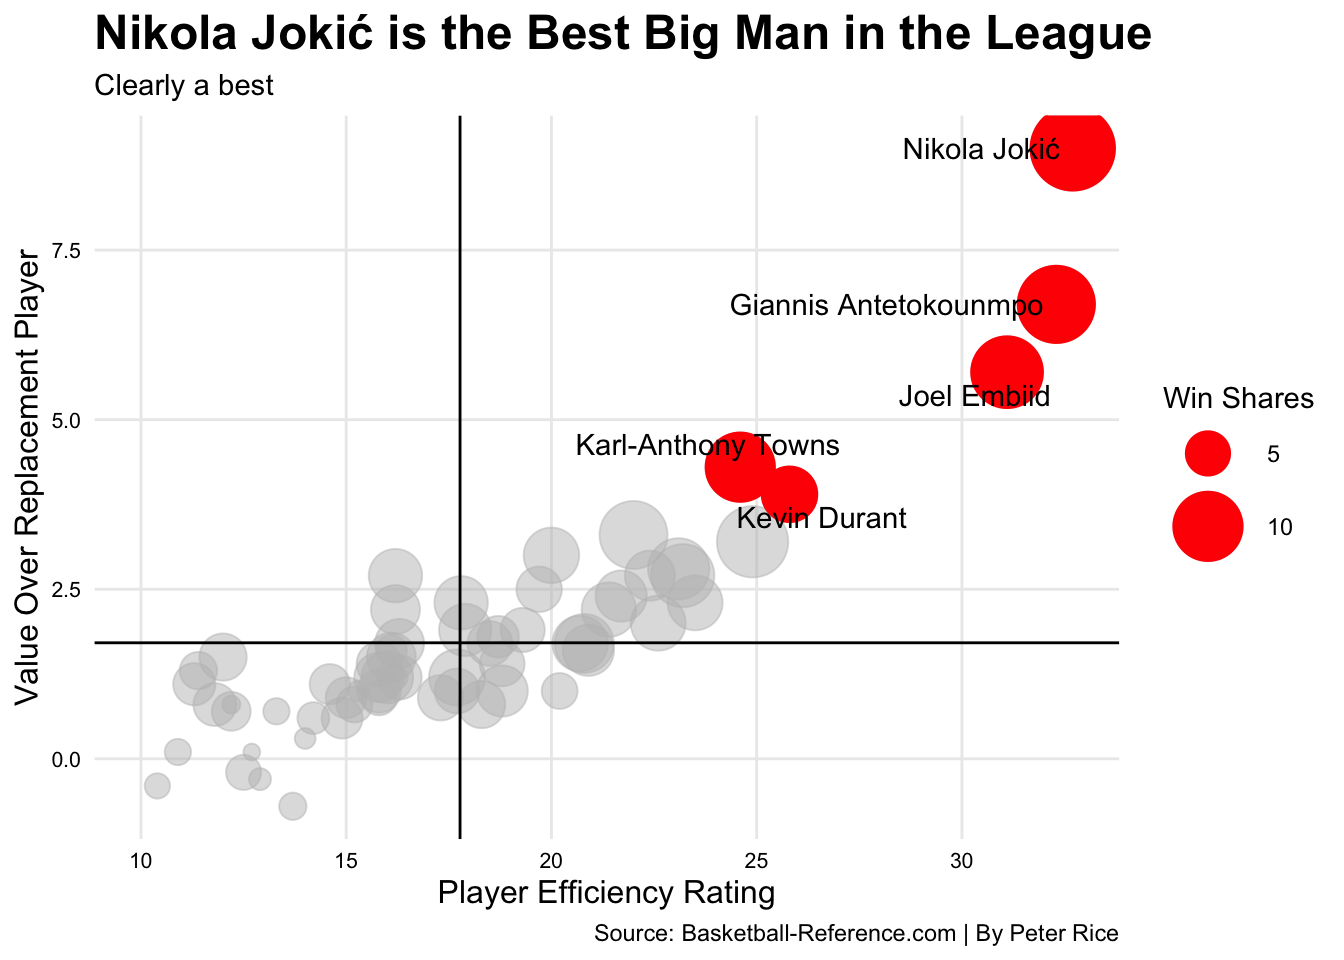
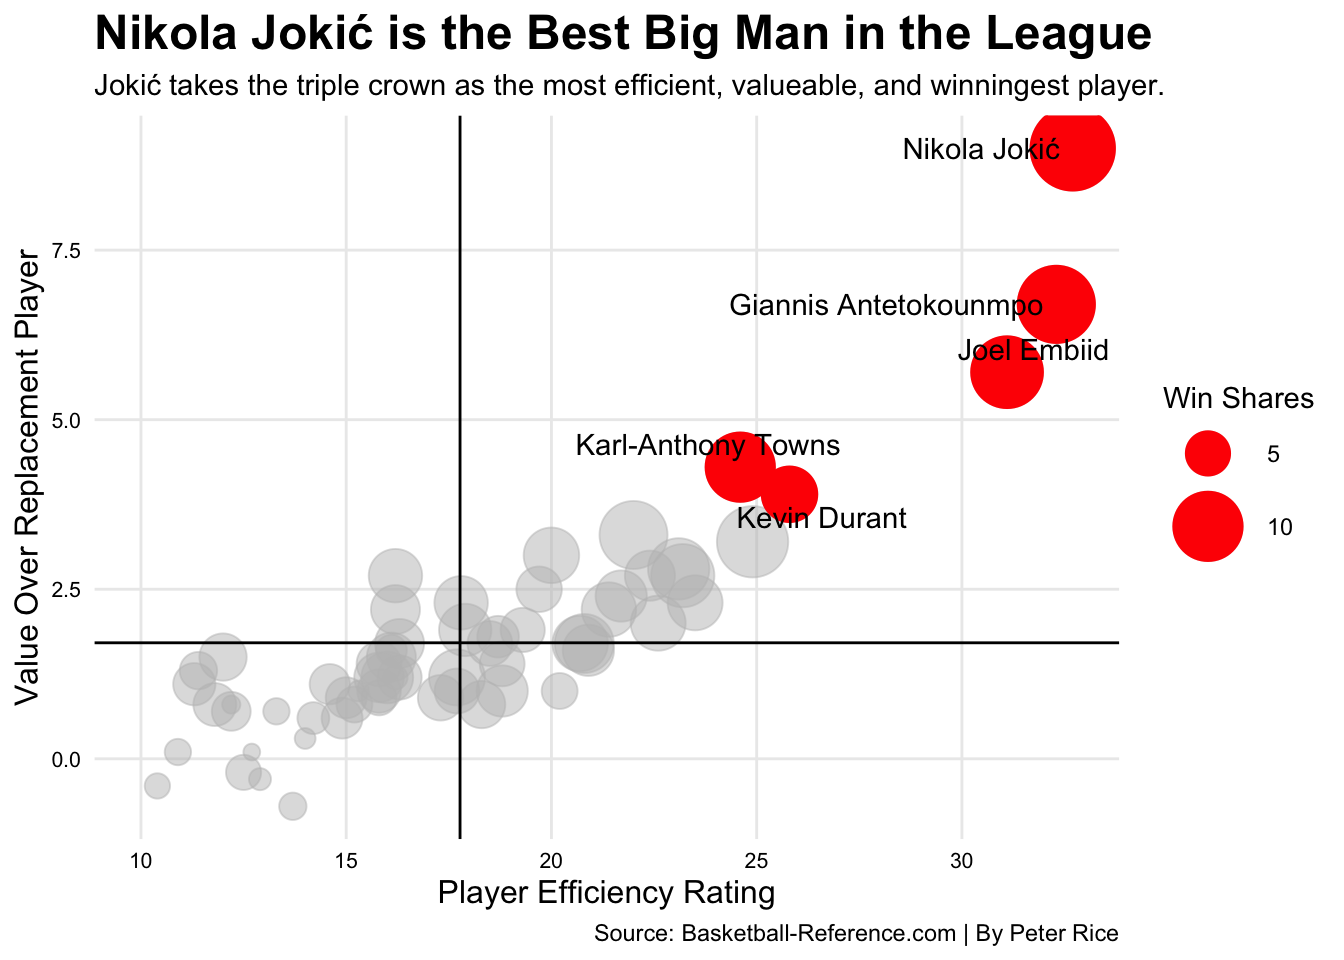
dn

Changed region(s): [[0.0625, 0.0625, 0.875, 0.125], [0.7188, 0.3125, 0.8438, 0.375], [0.6562, 0.4062, 0.7812, 0.4375]]

diff --git a/2022/03/31/best-big-man-in-the-nba-/index.html b/2022/03/31/best-big-man-in-the-nba-/index.html
@@ -73,13 +73,13 @@
 <p>There are so many great big men in the NBA right now, but who is the best?</p>
 <p>Because of the recent emphasis on spacing and 3-point shooting, the role of the big man has diminished in recent years. Teams now opt for fewer “non-shooters” on the court at a time, and as a result lineups have gotten smaller. Big men in the NBA might be smaller in number today, but their impact isn’t any less.</p>
 <p>Players such as Giannis Antetokounmpo, Joel Embiid, Nikola Jokić, Kevin Durant, and Karl Anthony-Towns are all leading their respective playoff-bound teams and are atop the MVP conversation. Rudy Gobert and Bam Adebayo are defensive stalwarts who are valuable to their team’s success without the high-end offense.</p>
-<p>These players, among others, are all important to winning, but recent data will help determine who has the biggest overall impact.</p>
-<div id="plgbeiknpl" style="overflow-x:auto;overflow-y:auto;width:auto;height:auto;">
+<p>These players among others are all important to winning, but recent data from Basketball Reference will help determine who has the biggest overall impact.</p>
+<div id="cbpldjoeuf" style="overflow-x:auto;overflow-y:auto;width:auto;height:auto;">
 <style>html {
   font-family: -apple-system, BlinkMacSystemFont, 'Segoe UI', Roboto, Oxygen, Ubuntu, Cantarell, 'Helvetica Neue', 'Fira Sans', 'Droid Sans', Arial, sans-serif;
 }
 
-#plgbeiknpl .gt_table {
+#cbpldjoeuf .gt_table {
   display: table;
   border-collapse: collapse;
   margin-left: auto;
@@ -104,7 +104,7 @@
   border-left-color: #D3D3D3;
 }
 
-#plgbeiknpl .gt_heading {
+#cbpldjoeuf .gt_heading {
   background-color: #FFFFFF;
   text-align: center;
   border-bottom-color: #FFFFFF;
@@ -116,7 +116,7 @@
   border-right-color: #D3D3D3;
 }
 
-#plgbeiknpl .gt_title {
+#cbpldjoeuf .gt_title {
   color: #333333;
   font-size: 125%;
   font-weight: initial;
@@ -128,7 +128,7 @@
   border-bottom-width: 0;
 }
 
-#plgbeiknpl .gt_subtitle {
+#cbpldjoeuf .gt_subtitle {
   color: #333333;
   font-size: 85%;
   font-weight: initial;
@@ -140,13 +140,13 @@
   border-top-width: 0;
 }
 
-#plgbeiknpl .gt_bottom_border {
+#cbpldjoeuf .gt_bottom_border {
   border-bottom-style: none;
   border-bottom-width: 2px;
   border-bottom-color: #D3D3D3;
 }
 
-#plgbeiknpl .gt_col_headings {
+#cbpldjoeuf .gt_col_headings {
   border-top-style: none;
   border-top-width: 2px;
   border-top-color: #D3D3D3;
@@ -161,7 +161,7 @@
   border-right-color: #D3D3D3;
 }
 
-#plgbeiknpl .gt_col_heading {
+#cbpldjoeuf .gt_col_heading {
   color: #333333;
   background-color: #FFFFFF;
   font-size: 100%;
@@ -181,7 +181,7 @@
   overflow-x: hidden;
 }
 
-#plgbeiknpl .gt_column_spanner_outer {
+#cbpldjoeuf .gt_column_spanner_outer {
   color: #333333;
   background-color: #FFFFFF;
   font-size: 100%;
@@ -193,15 +193,15 @@
   padding-right: 4px;
 }
 
-#plgbeiknpl .gt_column_spanner_outer:first-child {
+#cbpldjoeuf .gt_column_spanner_outer:first-child {
   padding-left: 0;
 }
 
-#plgbeiknpl .gt_column_spanner_outer:last-child {
+#cbpldjoeuf .gt_column_spanner_outer:last-child {
   padding-right: 0;
 }
 
-#plgbeiknpl .gt_column_spanner {
+#cbpldjoeuf .gt_column_spanner {
   border-bottom-style: none;
   border-bottom-width: 2px;
   border-bottom-color: #D3D3D3;
@@ -213,7 +213,7 @@
   width: 100%;
 }
 
-#plgbeiknpl .gt_group_heading {
+#cbpldjoeuf .gt_group_heading {
   padding-top: 8px;
   padding-bottom: 8px;
   padding-left: 5px;
@@ -238,7 +238,7 @@
   vertical-align: middle;
 }
 
-#plgbeiknpl .gt_empty_group_heading {
+#cbpldjoeuf .gt_empty_group_heading {
   padding: 0.5px;
   color: #333333;
   background-color: #FFFFFF;
@@ -253,15 +253,15 @@
   vertical-align: middle;
 }
 
-#plgbeiknpl .gt_from_md > :first-child {
+#cbpldjoeuf .gt_from_md > :first-child {
   margin-top: 0;
 }
 
-#plgbeiknpl .gt_from_md > :last-child {
+#cbpldjoeuf .gt_from_md > :last-child {
   margin-bottom: 0;
 }
 
-#plgbeiknpl .gt_row {
+#cbpldjoeuf .gt_row {
   padding-top: 8px;
   padding-bottom: 8px;
   padding-left: 5px;
@@ -280,7 +280,7 @@
   overflow-x: hidden;
 }
 
-#plgbeiknpl .gt_stub {
+#cbpldjoeuf .gt_stub {
   color: #333333;
   background-color: #FFFFFF;
   font-size: 100%;
@@ -293,7 +293,7 @@
   padding-right: 5px;
 }
 
-#plgbeiknpl .gt_stub_row_group {
+#cbpldjoeuf .gt_stub_row_group {
   color: #333333;
   background-color: #FFFFFF;
   font-size: 100%;
@@ -307,11 +307,11 @@
   vertical-align: top;
 }
 
-#plgbeiknpl .gt_row_group_first td {
+#cbpldjoeuf .gt_row_group_first td {
   border-top-width: 2px;
 }
 
-#plgbeiknpl .gt_summary_row {
+#cbpldjoeuf .gt_summary_row {
   color: #333333;
   background-color: #FFFFFF;
   text-transform: inherit;
@@ -321,16 +321,16 @@
   padding-right: 5px;
 }
 
-#plgbeiknpl .gt_first_summary_row {
+#cbpldjoeuf .gt_first_summary_row {
   border-top-style: none;
   border-top-color: #D3D3D3;
 }
 
-#plgbeiknpl .gt_first_summary_row.thick {
+#cbpldjoeuf .gt_first_summary_row.thick {
   border-top-width: 2px;
 }
 
-#plgbeiknpl .gt_last_summary_row {
+#cbpldjoeuf .gt_last_summary_row {
   padding-top: 8px;
   padding-bottom: 8px;
   padding-left: 5px;
@@ -340,7 +340,7 @@
   border-bottom-color: #D3D3D3;
 }
 
-#plgbeiknpl .gt_grand_summary_row {
+#cbpldjoeuf .gt_grand_summary_row {
   color: #333333;
   background-color: #FFFFFF;
   text-transform: inherit;
@@ -350,7 +350,7 @@
   padding-right: 5px;
 }
 
-#plgbeiknpl .gt_first_grand_summary_row {
+#cbpldjoeuf .gt_first_grand_summary_row {
   padding-top: 8px;
   padding-bottom: 8px;
   padding-left: 5px;
@@ -360,11 +360,11 @@
   border-top-color: #D3D3D3;
 }
 
-#plgbeiknpl .gt_striped {
+#cbpldjoeuf .gt_striped {
   background-color: rgba(128, 128, 128, 0.05);
 }
 
-#plgbeiknpl .gt_table_body {
+#cbpldjoeuf .gt_table_body {
   border-top-style: none;
   border-top-width: 2px;
   border-top-color: #D3D3D3;
@@ -373,7 +373,7 @@
   border-bottom-color: #D3D3D3;
 }
 
-#plgbeiknpl .gt_footnotes {
+#cbpldjoeuf .gt_footnotes {
   color: #333333;
   background-color: #FFFFFF;
   border-bottom-style: none;
@@ -387,7 +387,7 @@
   border-right-color: #D3D3D3;
 }
 
-#plgbeiknpl .gt_footnote {
+#cbpldjoeuf .gt_footnote {
   margin: 0px;
   font-size: 90%;
   padding-left: 4px;
@@ -396,7 +396,7 @@
   padding-right: 5px;
 }
 
-#plgbeiknpl .gt_sourcenotes {
+#cbpldjoeuf .gt_sourcenotes {
   color: #333333;
   background-color: #FFFFFF;
   border-bottom-style: none;
@@ -410,7 +410,7 @@
   border-right-color: #D3D3D3;
 }
 
-#plgbeiknpl .gt_sourcenote {
+#cbpldjoeuf .gt_sourcenote {
   font-size: 90%;
   padding-top: 4px;
   padding-bottom: 4px;
@@ -418,60 +418,60 @@
   padding-right: 5px;
 }
 
-#plgbeiknpl .gt_left {
+#cbpldjoeuf .gt_left {
   text-align: left;
 }
 
-#plgbeiknpl .gt_center {
+#cbpldjoeuf .gt_center {
   text-align: center;
 }
 
-#plgbeiknpl .gt_right {
+#cbpldjoeuf .gt_right {
   text-align: right;
   font-variant-numeric: tabular-nums;
 }
 
-#plgbeiknpl .gt_font_normal {
+#cbpldjoeuf .gt_font_normal {
   font-weight: normal;
 }
 
-#plgbeiknpl .gt_font_bold {
+#cbpldjoeuf .gt_font_bold {
   font-weight: bold;
 }
 
-#plgbeiknpl .gt_font_italic {
+#cbpldjoeuf .gt_font_italic {
   font-style: italic;
 }
 
-#plgbeiknpl .gt_super {
+#cbpldjoeuf .gt_super {
   font-size: 65%;
 }
 
-#plgbeiknpl .gt_footnote_marks {
+#cbpldjoeuf .gt_footnote_marks {
   font-style: italic;
   font-weight: normal;
   font-size: 75%;
   vertical-align: 0.4em;
 }
 
-#plgbeiknpl .gt_asterisk {
+#cbpldjoeuf .gt_asterisk {
   font-size: 100%;
   vertical-align: 0;
 }
 
-#plgbeiknpl .gt_slash_mark {
+#cbpldjoeuf .gt_slash_mark {
   font-size: 0.7em;
   line-height: 0.7em;
   vertical-align: 0.15em;
 }
 
-#plgbeiknpl .gt_fraction_numerator {
+#cbpldjoeuf .gt_fraction_numerator {
   font-size: 0.6em;
   line-height: 0.6em;
   vertical-align: 0.45em;
 }
 
-#plgbeiknpl .gt_fraction_denominator {
+#cbpldjoeuf .gt_fraction_denominator {
   font-size: 0.6em;
   line-height: 0.6em;
   vertical-align: -0.05em;
@@ -534,11 +534,10 @@
 <p>Advanced stats of course!</p>
 <p>We’ll put these individual statistics in context along with new metrics like “PER” and “VORP” to see who stands out from the rest. PER stands for player efficiency rating, which is a measure of a player’s per-minute productivity. VORP stands for value over replacement player which estimates the points per 100 possessions that a player contributed above a replacement-level player. These statistics show how efficient a player is, and also how much better they perform compared to an average big man.</p>
 <p><img src="http://petererice.github.io/2022/03/31/best-big-man-in-the-nba-/index_files/figure-html/unnamed-chunk-12-1.png" width="672" /></p>
-<p>Nikola Jokić is on pace to beat Giannis’s currently held record for the highest PER rating in a single season. On top of that, he leads the other bigs in VORP by a significant margin. This is because Jokić is the only one of these star players who doesn’t have an all-star teammate playing alongside him. He is forced more than any other player to create plays for his team and he constantly delivers.</p>
-<p>We’re not ready to crown Jokić as the king of big men quite yet. Even though he is the most efficient and “valuable” player according to our data, does it lead to winning?</p>
+<p>Nikola Jokić is on pace to beat Giannis’s currently held record for the highest PER rating in a single season. On top of that, he leads the other bigs in VORP by a significant margin. This is because Jokić is the only one of these great players who doesn’t have an all-star teammate playing alongside him. He is forced more than any other player to create plays for his team and he constantly delivers.</p>
+<p>However, we’re not ready to crown Jokić as the king of big men quite yet. Even though he is the most efficient and “valuable” player according to our data, does it lead to winning?</p>
 <p>“Win Shares” are an advanced measure that are given to players based on their offense, defense, and playing time. One win share is worth one-third of a team win. If a team were to win 60 games, there would be 180 win shares to distribute among that team’s players.
 <img src="http://petererice.github.io/2022/03/31/best-big-man-in-the-nba-/index_files/figure-html/unnamed-chunk-13-1.png" width="672" /></p>
-<p>end</p>
 
     </div>
   </article>
